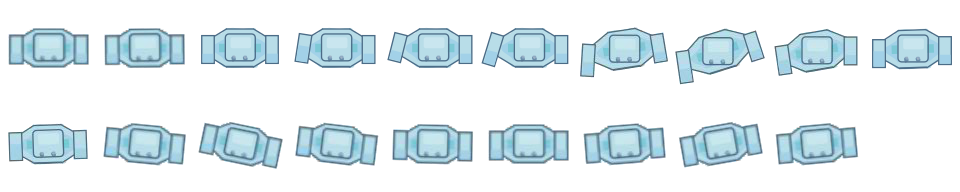
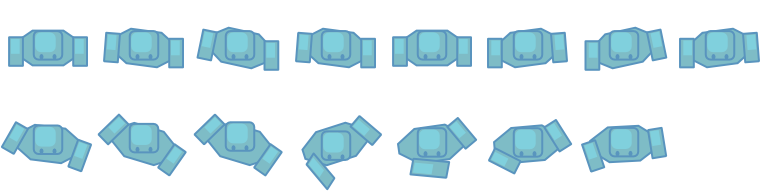
Fixed golem animations.

diff --git a/DreamStateMachine/Game/Sound/Sound.cs b/DreamStateMachine/Game/Sound/Sound.cs
@@ -12,16 +12,24 @@ namespace DreamStateMachine
 {
     class Sound
     {
-        public SoundEffect effect;
+        public SoundEffectInstance effect;
+        float startFade;
+        bool isFadingIn = false;
+        bool isFadingOut = false;
 
         public Sound(SoundEffect effect)
         {
-          this.effect = effect;
+          this.effect = effect.CreateInstance();
         }
 
         public void playSound()
         {
             effect.Play();
+        }
+
+        public void fadeInSound(float timeToFadeIn)
+        {
+            effect.Volume = 0;
         }
 
      }

diff --git a/DreamStateMachine/game.cs b/DreamStateMachine/game.cs
@@ -167,9 +167,7 @@ namespace DreamStateMachine
 
         public void startNewGame()
         {
-            Console.Write("THIS GOT RUN MANG");
             worldManager.initStartingWorld();
-            //actorManager.spawnActors(worldManager.curWorld.getSpawns());
         }
 
         public void MainGameUpdate(GameTime gameTime)
